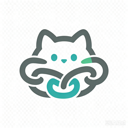
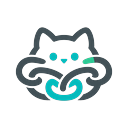
feat(tray): 托盘接入项目图标（透明底 + 状态色徽章）+ 安装包内置图标资源 (#2)
* feat(tray): use project icon with status badge + bundle icon in installer datas

* feat(icon): replace with final icon (1536x1024 transparent, no watermark) + tray contain-fit

Changed region(s): [[0.125, 0.1875, 0.875, 0.8125], [0.375, 0.4062, 0.625, 0.5]]

diff --git a/src/ghlink/tray.py b/src/ghlink/tray.py
@@ -44,6 +44,26 @@ _TEXT = {
 }
 
 
+def _icon_path() -> str:
+    """项目图标路径：安装包（PyInstaller datas）优先，仓库 assets/ 兜底。"""
+    candidates = []
+    if getattr(sys, "frozen", False):  # PyInstaller 打包环境
+        base = getattr(sys, "_MEIPASS", os.path.dirname(sys.executable))
+        candidates.append(os.path.join(base, "assets", "ghlink-icon.png"))
+    # 仓库/开发环境
+    candidates.append(
+        os.path.join(
+            os.path.dirname(os.path.dirname(os.path.dirname(os.path.abspath(__file__)))),
+            "assets",
+            "ghlink-icon.png",
+        )
+    )
+    for p in candidates:
+        if os.path.exists(p):
+            return p
+    return ""
+
+
 def _config_path() -> str:
     """托盘读取状态用的配置路径（与 service 一致）。"""
     return (
@@ -66,12 +86,33 @@ def _status_text() -> str:
 
 
 def _make_icon(color: str, size: int = 64):
-    """生成纯色圆角图标（无外部资源文件）。"""
-    img = Image.new("RGBA", (size, size), (0, 0, 0, 0))
+    """生成托盘图标：项目图标 + 右下角状态色徽章；无图标资源时回退纯色圆角。"""
+    img = None
+    path = _icon_path()
+    if path:
+        try:
+            icon = Image.open(path).convert("RGBA")
+            # contain 居中：保持比例不变形（横版图标贴入方形画布）
+            icon.thumbnail((size, size), Image.LANCZOS)
+            img = Image.new("RGBA", (size, size), (0, 0, 0, 0))
+            img.paste(
+                icon,
+                ((size - icon.width) // 2, (size - icon.height) // 2),
+                icon,
+            )
+        except Exception:
+            img = None
+    if img is None:  # 回退：纯色圆角 + 中心 G
+        img = Image.new("RGBA", (size, size), (0, 0, 0, 0))
+        d = ImageDraw.Draw(img)
+        d.ellipse((4, 4, size - 4, size - 4), fill=color)
+        d.text((size * 0.35, size * 0.28), "G", fill="white")
+    # 右下角状态徽章（带白边，深浅底色都清晰）
     d = ImageDraw.Draw(img)
-    d.ellipse((4, 4, size - 4, size - 4), fill=color)
-    # 中心字母 G
-    d.text((size * 0.35, size * 0.28), "G", fill="white")
+    r = max(size // 8, 6)
+    cx, cy = size - r - 2, size - r - 2
+    d.ellipse((cx - r, cy - r, cx + r, cy + r), fill="white")
+    d.ellipse((cx - r + 2, cy - r + 2, cx + r - 2, cy + r - 2), fill=color)
     return img
 
 
